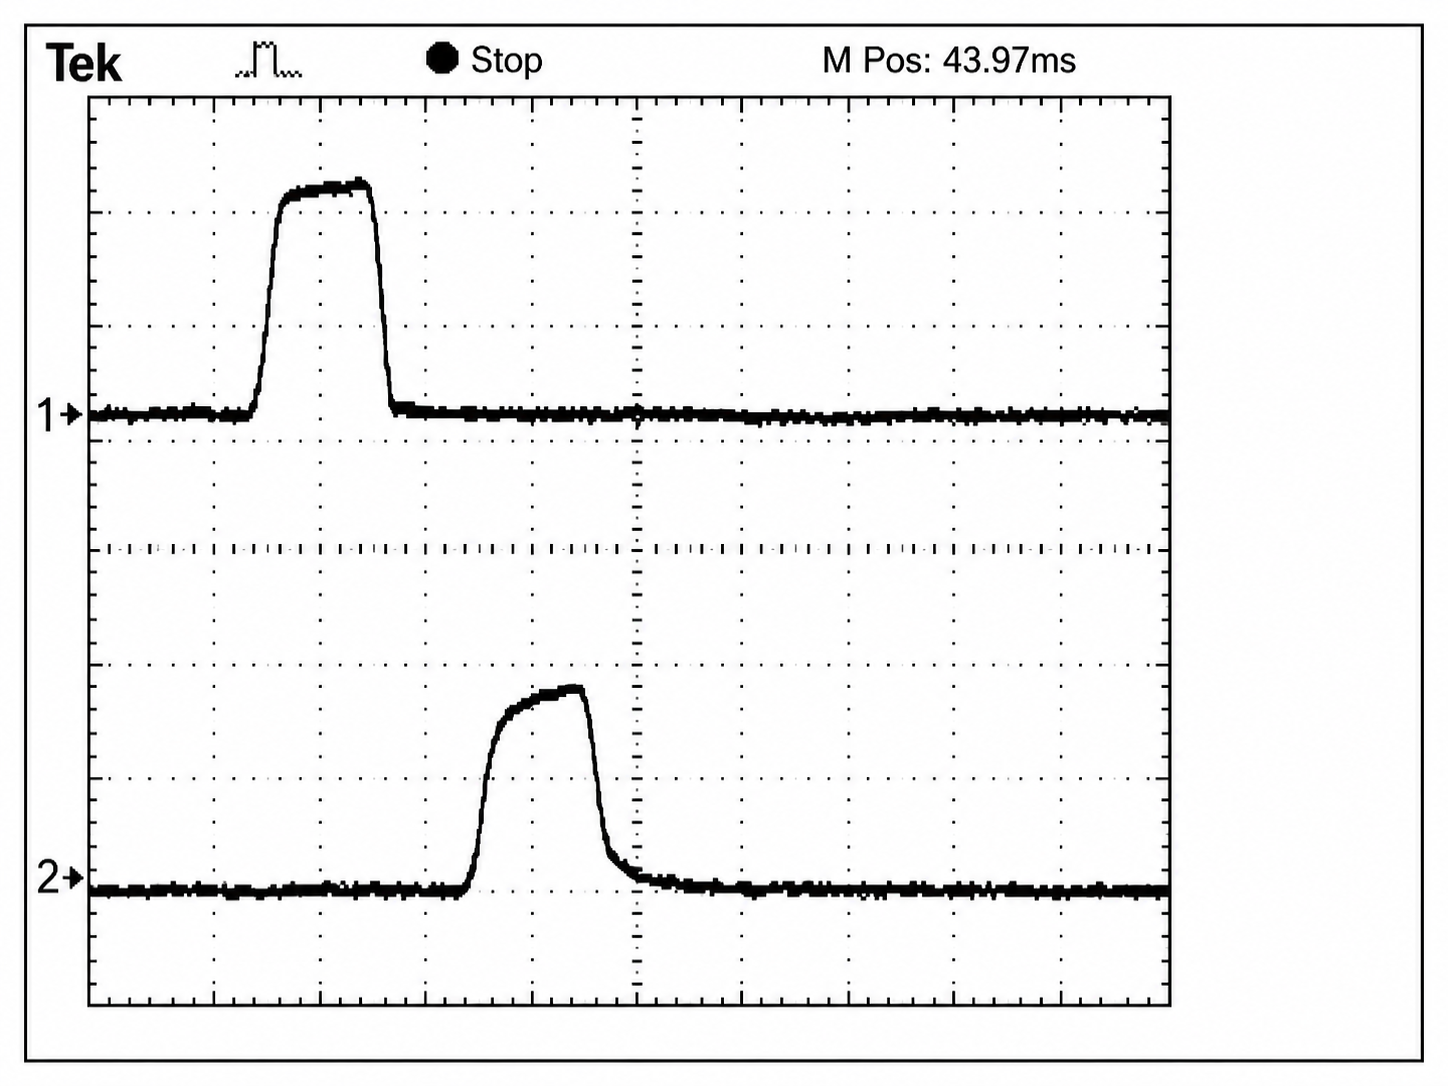
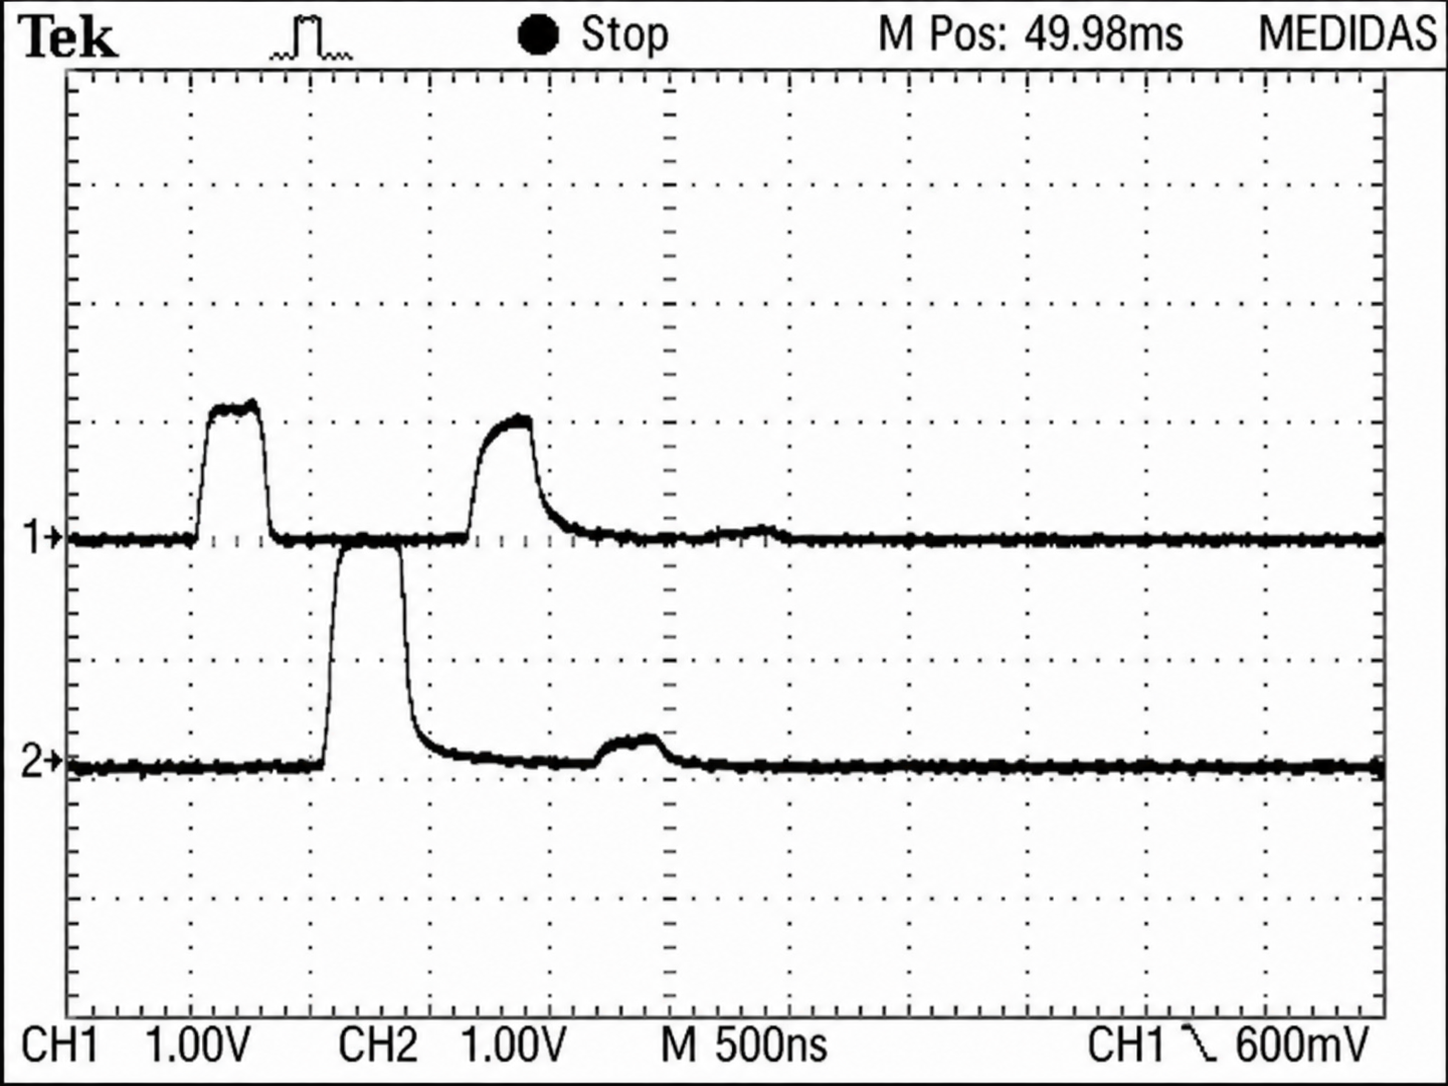
correcciones finales resus tp2

diff --git a/Experimento II, Transporte de Señales/Informe 2/4Resultados y discusión.tex b/Experimento II, Transporte de Señales/Informe 2/4Resultados y discusión.tex
@@ -52,30 +52,26 @@ Con el objetivo de comprobar el comportamiento del circuito RC en escalera, se c
 
 \subsection{Cable coaxial}
 
-En esta parte del experimento se analizó la propagación de pulsos en un cable coaxial bajo distintas condiciones de impedancia: Impedancia nula (cortocircuito), impedancia infinita (circuito abierto) e impedancia igual a la característica del cable. Las mediciones se realizaron con un osciloscopio, donde la señal superior corresponde a la señal de entrada (onda incidente) y la inferior a la señal de salida (onda reflejada).
-Como se observa en la \autoref{fig:Coaxial_infinito}, para el caso de resistencia infinita, la señal reflejada presenta la misma polaridad que la señal incidente. Es decir, el pulso reflejado coincide en forma con el pulso de entrada. Esto indica que el extremo del cable se comporta como un circuito abierto, donde no circula corriente. Bajo esta condición, la energía de la onda no puede disiparse, por lo que refleja completamente hacia la fuente idealmente con la misma amplitud, cosa que no es así pues el cable no es un elemento ideal y genera una disipación de energía. Este comportamiento es consistente con un coeficiente de reflexión igual a 1.
+En base a la expresión para el coeficiente de reflexión \(\Gamma = \frac{Z_L - Z_C}{Z_L + Z_C}\), donde \(Z_L\) es la impedancia de carga y \(Z_C\) es la impedancia característica del cable, se analizó la respuesta del cable coaxial bajo tres condiciones de impedancia diferentes: impedancia nula (cortocircuito), impedancia infinita (circuito abierto) e impedancia igual a la característica del cable. En el primer caso se espera un coeficiente de reflexión de \(\Gamma = -1\), lo que implica una reflexión total con polaridad invertida, mientras que en el segundo caso se espera un coeficiente de reflexión de \(\Gamma = 1\), lo que implica una reflexión total igual al pulso de entrada. Finalmente, en el tercer caso se espera un coeficiente de reflexión de \(\Gamma = 0\), lo que implica la ausencia de reflexión.
+
+En la \autoref{fig:Coaxial_comparacion} se presentan las formas de onda obtenidas para cada una de las condiciones de impedancia, donde el canal 1 corresponde al pulso incidente y el canal 2 corresponde a la suma del pulso incidente y el reflejado. En el caso de impedancia infinita (ver \autoref{fig:Coaxial_infinito}), se observa que el canal 2 muestra un pulso igual al doble del pulso incidente, esto indica que la señal reflejada tiene la misma amplitud y polaridad que la señal incidente, comportamiento que es consistente con un coeficiente de reflexión de \(\Gamma = 1\). En el caso de impedancia nula (ver \autoref{fig:Coaxial_nulo}), no se aprecia ninguna señal como respuesta, es decir que la señal reflejada es de igual amplitud pero de polaridad opuesta a la señal de entrada, lo que es consistente con un coeficiente de reflexión de \(\Gamma = -1\). Finalmente, en el caso de impedancia igual a la característica del cable \(Z_C=50(3)\Omega\) (ver \autoref{fig:Coaxial_50}), se ve una señal en la salida igual al pulso incidente, por ende la señal reflejada es nula, consistente con un coeficiente de reflexión de \(\Gamma = 0\).
 
 \begin{figure}[H]
     \centering
 
-    % Parámetros editables
-    \def\anchosubfigura{0.40\textwidth}
-    \def\separacionvertical{0.2cm}
+    
+    \def\anchosubfigura{0.3\textwidth}
 
-    % Fila superior
     \begin{subfigure}[b]{\anchosubfigura}
         \centering
-        \includegraphics[width=\linewidth]{Figuras2/R_infinita.png}
+        \includegraphics[width=\linewidth]{gráficos/R_infinita.png}
         \caption{}
         \label{fig:Coaxial_infinito}
     \end{subfigure}
-
-    \vspace{\separacionvertical}
-
-    % Fila inferior
+    \hfill
     \begin{subfigure}[b]{\anchosubfigura}
         \centering
-        \includegraphics[width=\linewidth]{Figuras2/R_0.png}
+        \includegraphics[width=\linewidth]{gráficos/R_0.png}
         \caption{}
         \label{fig:Coaxial_nulo}
     \end{subfigure}
@@ -87,17 +83,10 @@ Como se observa en la \autoref{fig:Coaxial_infinito}, para el caso de resistenci
         \label{fig:Coaxial_50}
     \end{subfigure}
 
-    \caption{Respuesta del cable coaxial bajo distintas condiciones de impedancia. En los tres casos, el canal 1 mide el pulso incidente, así como un segundo pulso que carece de información importante para esta experiencia, y el canal 2 mide la suma del pulso incidente y el reflejado. En la figura (a) se muestra la respuesta para una impedancia infinita, en la figura (b) la respuesta para una impedancia nula, y en la figura (c) la respuesta para una impedancia igual a la característica del cable.}
+    \caption{Respuesta del cable coaxial bajo distintas condiciones de impedancia. En los tres casos, el canal 1 mide el pulso incidente, mientras que el canal 2 mide la suma del pulso incidente y el reflejado. En la figura (a) se muestra la respuesta para una impedancia infinita, en la figura (b) la respuesta para una impedancia nula, y en la figura (c) la respuesta para una impedancia igual a la característica del cable.}
     \label{fig:Coaxial_comparacion}
 \end{figure}
 
-%Respuesta del cable coaxial bajo distintas condiciones de impedancia. En la figura (a) se muestra la respuesta para una impedancia infinita,en la figura (b) se muestra la respuesta para una impedancia nula, y en la figura (c) se muestra la respuesta para una impedancia igual a la característica del cable.
-
-En el caso de resistencia nula, se advierte la presencia de una señal que presenta una polaridad opuesta a la señal incidente en el canal de entrada. Este pulso invertido indica la existencia de una reflexión en el extremos del cable, característica de una terminación en cortocircuito, como se observa en la \autoref{fig:Coaxial_nulo}. La diferencia temporal entre ambas señales corresponde al tiempo de propagación de ida y vuelta en la línea. 
-Bajo esta condición, la onda se refleja completamente hacia la fuente, pero con una inversión de fase de 180 grados, lo que resulta en una señal reflejada con polaridad opuesta a la señal incidente. Al igual que en el caso anterior, la amplitud de la señal reflejada no coincide exactamente con la señal incidente debido a las pérdidas energeticas en el cable. Este comportamiento concuerda con un coeficiente de reflexión igual a -1.
-
-
-Finalmente, cuando la impedancia de la terminación es igual a la característica del cable (\(Z_C = 50(3)\) $\Omega$), no se observa señal reflejada. En esta condición, toda la energía de la onda incidente es absorbida, minimizando las reflexiones, como se puede ver en la \autoref{fig:Coaxial_50}. Idealmente, para este caso, el coeficiente de reflexión es nulo. 
 
 
 
